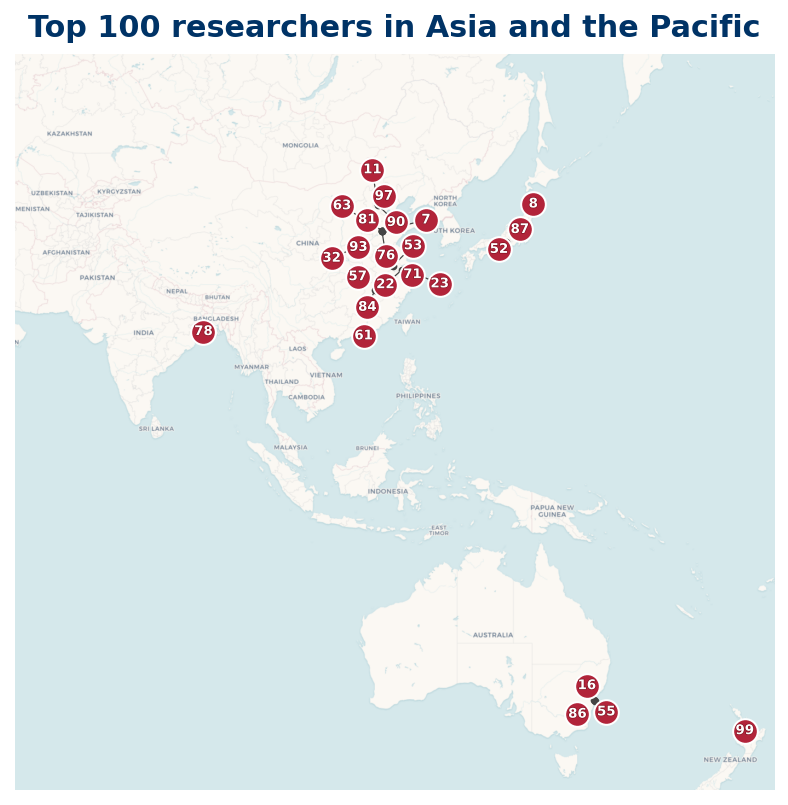
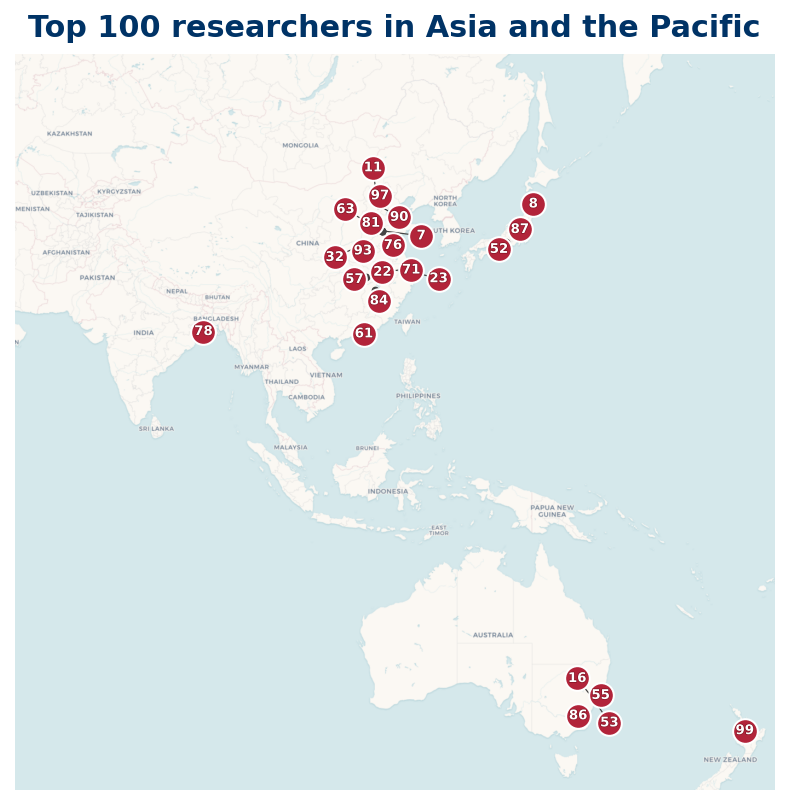
Disambiguation: fix Liangyi Zhao affiliation (UNSW Sydney), add QA detector to pipeline

Changed region(s): [[0.3959, 0.1863, 0.5787, 0.4348], [0.7005, 0.8075, 0.7919, 0.9317]]

diff --git a/_site/top100.html b/_site/top100.html
@@ -96,7 +96,7 @@
 <tr><td>50</td><td><a href="people/ciprian-demeter.html">Ciprian Demeter</a></td><td>Indiana University Bloomington</td><td>US</td><td data-order="25">25</td><td data-order="38">[38]</td><td data-order="96">[96]</td><td data-order="15">15</td><td>arxiv_only</td><td>2014</td><td>2016</td></tr>
 <tr><td>51</td><td><a href="people/karin-halupczok.html">Karin Halupczok</a></td><td>Heinrich Heine University Düsseldorf</td><td>DE</td><td data-order="16">16</td><td data-order="43">43</td><td data-order="153">153</td><td data-order="5">5</td><td>all_three</td><td>2005</td><td>2021</td></tr>
 <tr><td>52</td><td><a href="people/kohji-matsumoto.html">Kohji Matsumoto</a></td><td>Nagoya University</td><td>JP</td><td data-order="26">26</td><td data-order="38">[38]</td><td data-order="96">[96]</td><td data-order="26">26</td><td>arxiv_only</td><td>2011</td><td>2024</td></tr>
-<tr><td>53</td><td><a href="people/liangyi-zhao.html">Liangyi Zhao</a></td><td>Nanjing Agricultural University</td><td>CN</td><td data-order="104">104</td><td data-order="41">41</td><td data-order="24">24</td><td data-order="13">13</td><td>all_three</td><td>2013</td><td>2022</td></tr>
+<tr><td>53</td><td><a href="people/liangyi-zhao.html">Liangyi Zhao</a></td><td>UNSW Sydney</td><td>AU</td><td data-order="104">104</td><td data-order="41">41</td><td data-order="24">24</td><td data-order="13">13</td><td>all_three</td><td>2013</td><td>2022</td></tr>
 <tr><td>54</td><td><a href="people/akshat-mudgal.html">Akshat Mudgal</a></td><td>University of Warwick</td><td>GB</td><td data-order="30">30</td><td data-order="38">[38]</td><td data-order="73">[73]</td><td data-order="6">6</td><td>arxiv_only</td><td>2020</td><td>2023</td></tr>
 <tr><td>55</td><td><a href="people/bryce-kerr.html">Bryce Kerr</a></td><td>UNSW Sydney</td><td>AU</td><td data-order="28">28</td><td data-order="38">[38]</td><td data-order="90">[90]</td><td data-order="10">10</td><td>arxiv_only</td><td>2012</td><td>2019</td></tr>
 <tr><td>56</td><td><a href="people/claus-bauer.html">Claus Bauer</a></td><td>Dolby (Netherlands)</td><td>NL</td><td data-order="46">[46]</td><td data-order="30">30</td><td data-order="61">61</td><td data-order="22">22</td><td>oa+zb</td><td>1998</td><td>2020</td></tr>

diff --git a/_site/regions/asia.html b/_site/regions/asia.html
@@ -53,7 +53,7 @@
 <tr><td>23</td><td><a href="../people/yingchun-cai.html">Yingchun Cai</a></td><td>Tongji University</td><td>CN</td></tr>
 <tr><td>32</td><td><a href="../people/tianze-wang.html">Tianze Wang</a></td><td>Institute of Mathematics, Henan Academy of Sciences</td><td>CN</td></tr>
 <tr><td>52</td><td><a href="../people/kohji-matsumoto.html">Kohji Matsumoto</a></td><td>Nagoya University</td><td>JP</td></tr>
-<tr><td>53</td><td><a href="../people/liangyi-zhao.html">Liangyi Zhao</a></td><td>Nanjing Agricultural University</td><td>CN</td></tr>
+<tr><td>53</td><td><a href="../people/liangyi-zhao.html">Liangyi Zhao</a></td><td>UNSW Sydney</td><td>AU</td></tr>
 <tr><td>55</td><td><a href="../people/bryce-kerr.html">Bryce Kerr</a></td><td>UNSW Sydney</td><td>AU</td></tr>
 <tr><td>57</td><td><a href="../people/victor-z-guo.html">Victor Z. Guo</a></td><td>Huazhong University of Science and Technology</td><td>CN</td></tr>
 <tr><td>61</td><td><a href="../people/kai-man-tsang.html">Kai-Man Tsang</a></td><td>University of Hong Kong</td><td>HK</td></tr>

diff --git a/_site/people/liangyi-zhao.html b/_site/people/liangyi-zhao.html
@@ -34,7 +34,7 @@
 <main>
 <p class="subtitle"><a href="../top100.html">&larr; Back to the Top 100</a></p>
 <h1>Liangyi Zhao (#53)</h1>
-<p class="subtitle">Nanjing Agricultural University (CN)</p>
+<p class="subtitle">UNSW Sydney (AU)</p>
 
 <table class="profile-table">
 <tbody>
